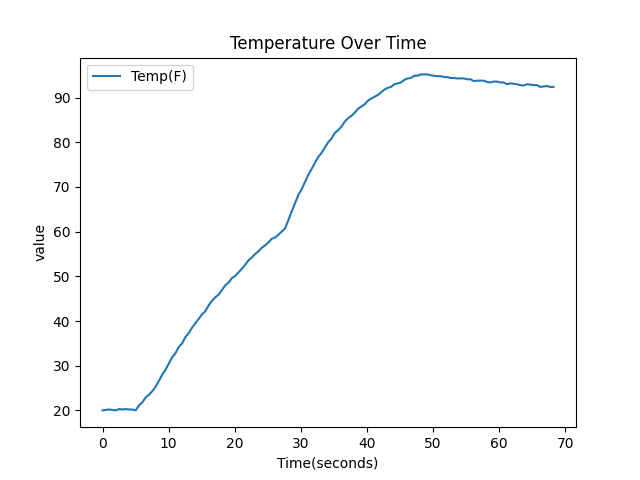
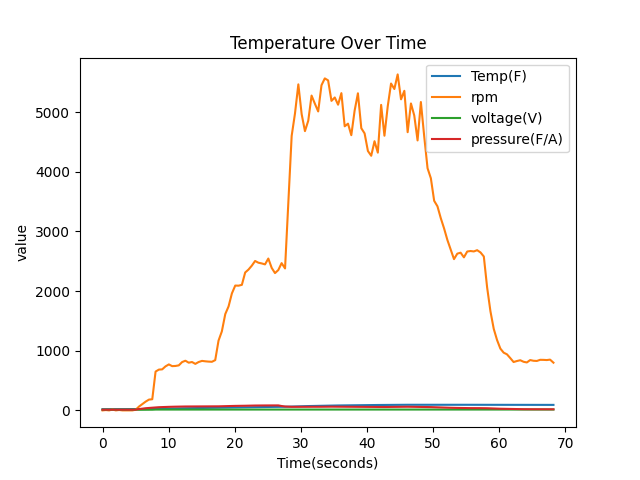
Upgrade plot_results
added plot for all sensor data

diff --git a/scripts/plot_results.py b/scripts/plot_results.py
@@ -13,6 +13,9 @@ print(df.head())
 
 # Example: plot one column vs another
 plt.plot(df["time"], df["temp"], label="Temp(F)")
+plt.plot(df["time"], df["rpm"], label="rpm")
+plt.plot(df["time"], df["voltage"], label="voltage(V)")
+plt.plot(df["time"], df["pressure"], label="pressure(F/A)")
 
 plt.xlabel("Time(seconds)")
 plt.ylabel("value")
